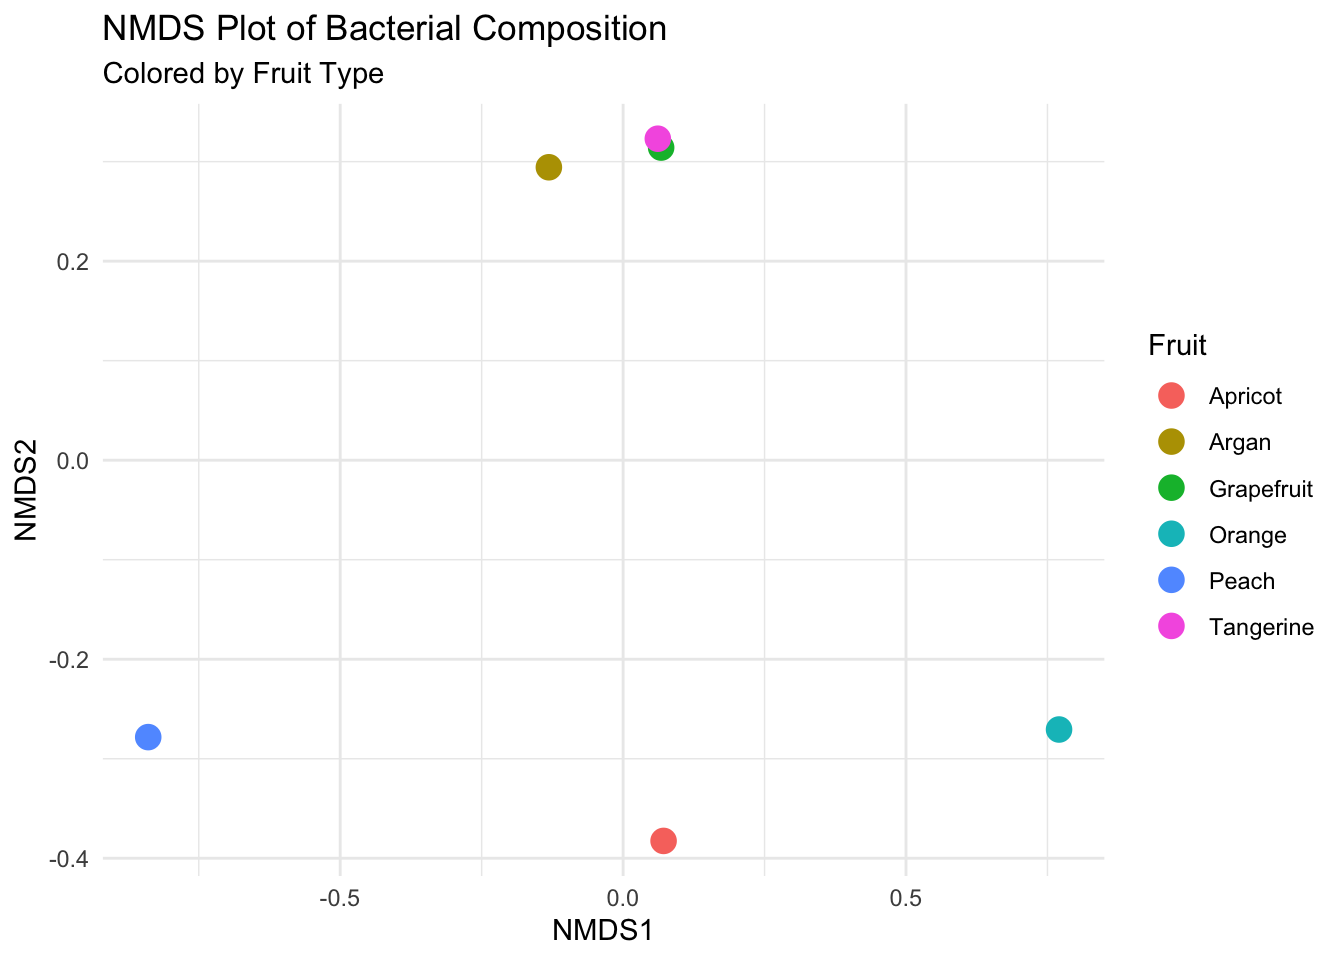
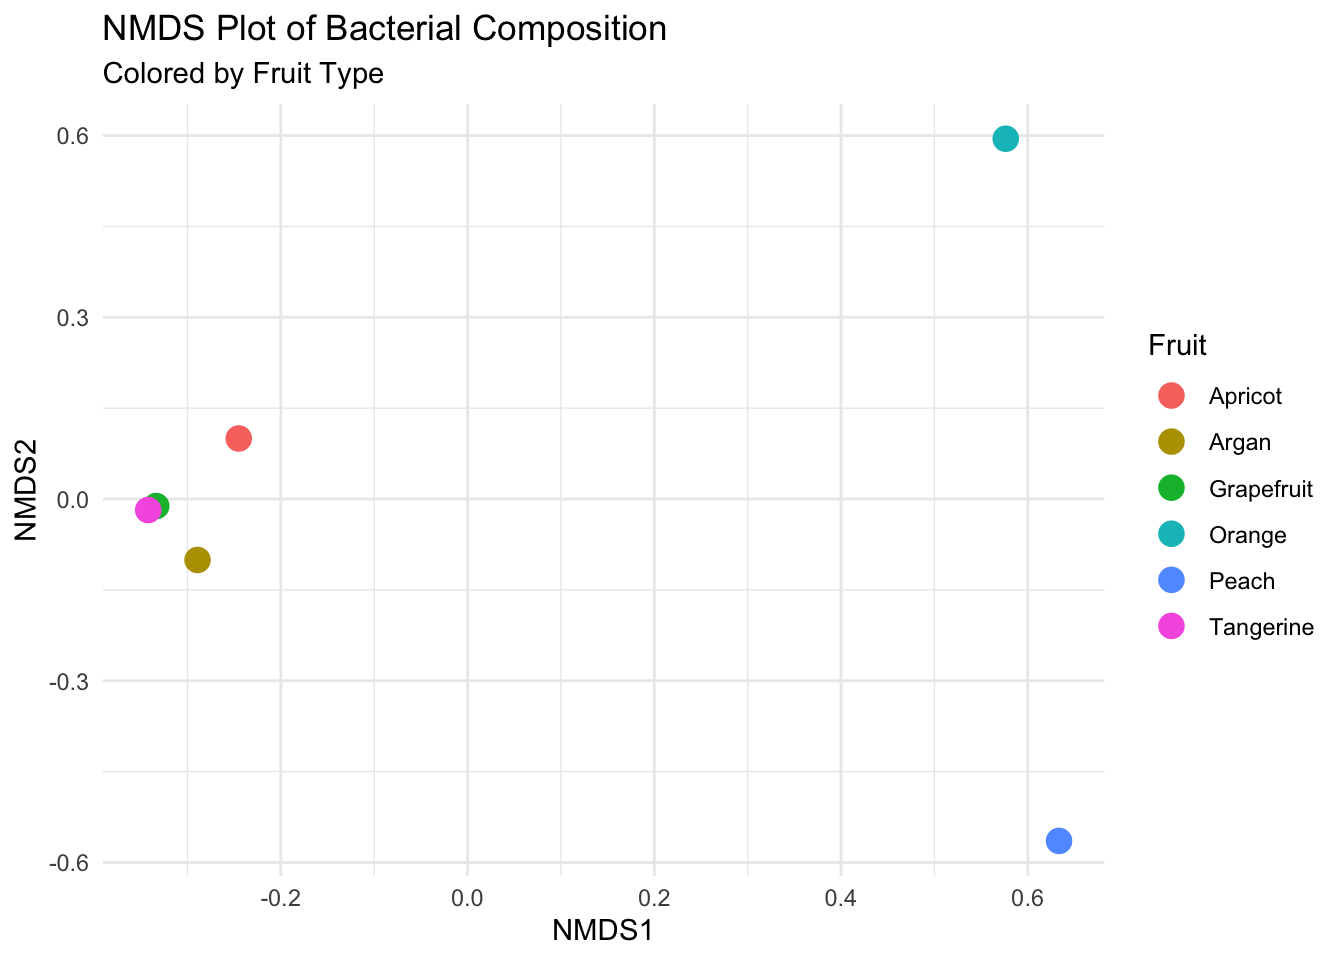
Commiting docs to render new website.

diff --git a/docs/qmds/PCoA.html b/docs/qmds/PCoA.html
@@ -436,7 +436,7 @@ Show/Hide <code>bray_curtis &lt;- vegdist(df_2, method = "bray"</code>) output
 <div class="cell">
 <div class="sourceCode cell-code" id="cb6"><pre class="sourceCode r code-with-copy"><code class="sourceCode r"><span id="cb6-1"><a href="#cb6-1" aria-hidden="true" tabindex="-1"></a>bray_curtis_matrix <span class="ot">&lt;-</span> <span class="fu">as.matrix</span>(bray_curtis) <span class="co"># First covert the values to a matrix</span></span>
 <span id="cb6-2"><a href="#cb6-2" aria-hidden="true" tabindex="-1"></a></span>
-<span id="cb6-3"><a href="#cb6-3" aria-hidden="true" tabindex="-1"></a>fruit_names <span class="ot">&lt;-</span> <span class="fu">c</span>(<span class="st">"Apricot"</span>, <span class="st">"Argan"</span>, <span class="st">"GF"</span>, <span class="st">"Orange"</span>, <span class="st">"Peach"</span>, <span class="st">"Tang"</span>) <span class="co"># Label what the fruits are </span></span>
+<span id="cb6-3"><a href="#cb6-3" aria-hidden="true" tabindex="-1"></a>fruit_names <span class="ot">&lt;-</span> <span class="fu">c</span>(<span class="st">"Apricot"</span>, <span class="st">"Argan"</span>, <span class="st">"GF"</span>, <span class="st">"Orange"</span>, <span class="st">"Peach"</span>, <span class="st">"Tangerine"</span>) <span class="co"># Label what the fruits are </span></span>
 <span id="cb6-4"><a href="#cb6-4" aria-hidden="true" tabindex="-1"></a></span>
 <span id="cb6-5"><a href="#cb6-5" aria-hidden="true" tabindex="-1"></a><span class="fu">rownames</span>(bray_curtis_matrix) <span class="ot">&lt;-</span> fruit_names <span class="co"># Add the fruit names to row names</span></span>
 <span id="cb6-6"><a href="#cb6-6" aria-hidden="true" tabindex="-1"></a></span>
@@ -448,13 +448,13 @@ Show/Hide <code>bray_curtis_matrix</code> output
 <div id="bray_curtis_matrix-container" style="display:none;">
 <div class="cell">
 <div class="cell-output cell-output-stdout">
-<pre><code>          Apricot     Argan        GF    Orange     Peach      Tang
-Apricot 0.0000000 0.1000000 0.1000000 0.1500000 0.3170732 0.5348837
-Argan   0.1000000 0.0000000 0.0000000 0.0952381 0.2558140 0.4666667
-GF      0.1000000 0.0000000 0.0000000 0.0952381 0.2558140 0.4666667
-Orange  0.1500000 0.0952381 0.0952381 0.0000000 0.2093023 0.4222222
-Peach   0.3170732 0.2558140 0.2558140 0.2093023 0.0000000 0.2608696
-Tang    0.5348837 0.4666667 0.4666667 0.4222222 0.2608696 0.0000000</code></pre>
+<pre><code>            Apricot     Argan        GF    Orange     Peach Tangerine
+Apricot   0.0000000 0.1000000 0.1000000 0.1500000 0.3170732 0.5348837
+Argan     0.1000000 0.0000000 0.0000000 0.0952381 0.2558140 0.4666667
+GF        0.1000000 0.0000000 0.0000000 0.0952381 0.2558140 0.4666667
+Orange    0.1500000 0.0952381 0.0952381 0.0000000 0.2093023 0.4222222
+Peach     0.3170732 0.2558140 0.2558140 0.2093023 0.0000000 0.2608696
+Tangerine 0.5348837 0.4666667 0.4666667 0.4222222 0.2608696 0.0000000</code></pre>
 </div>
 </div>
 </div>
@@ -476,13 +476,13 @@ Show/Hide <code>pcoa_values</code> output
 <div class="cell">
 <div class="cell-output cell-output-stdout">
 <pre><code>$points
-               [,1]         [,2]
-Apricot  0.18087554  0.004725498
-Argan    0.11375747  0.022353574
-GF       0.11375747  0.022353574
-Orange   0.06328949 -0.012621679
-Peach   -0.12055480 -0.078357582
-Tang    -0.35112516  0.041546616
+                 [,1]         [,2]
+Apricot    0.18087554  0.004725498
+Argan      0.11375747  0.022353574
+GF         0.11375747  0.022353574
+Orange     0.06328949 -0.012621679
+Peach     -0.12055480 -0.078357582
+Tangerine -0.35112516  0.041546616
 
 $eig
 [1]  2.004254e-01  9.047034e-03  4.449146e-03  3.386055e-03  8.527298e-18
@@ -526,13 +526,13 @@ Show/Hide <code>points</code> output
 <div id="points-container" style="display:none;">
 <div class="cell">
 <div class="cell-output cell-output-stdout">
-<pre><code>              PCoA1        PCoA2   Fruit
-Apricot  0.18087554  0.004725498 Apricot
-Argan    0.11375747  0.022353574   Argan
-GF       0.11375747  0.022353574      GF
-Orange   0.06328949 -0.012621679  Orange
-Peach   -0.12055480 -0.078357582   Peach
-Tang    -0.35112516  0.041546616    Tang</code></pre>
+<pre><code>                PCoA1        PCoA2     Fruit
+Apricot    0.18087554  0.004725498   Apricot
+Argan      0.11375747  0.022353574     Argan
+GF         0.11375747  0.022353574        GF
+Orange     0.06328949 -0.012621679    Orange
+Peach     -0.12055480 -0.078357582     Peach
+Tangerine -0.35112516  0.041546616 Tangerine</code></pre>
 </div>
 </div>
 </div>
@@ -576,6 +576,7 @@ Show/Hide <code>var_explained</code> output
 </div>
 </div>
 </div>
+<p><strong>What do we see?</strong> From this we can see that the microbial composition from Argan and Grapefruit are the same.</p>
 
 
 </section>

diff --git a/docs/qmds/tephritidecology.html b/docs/qmds/tephritidecology.html
@@ -211,8 +211,8 @@ ul.task-list li input[type="checkbox"] {
 
 <div class="cell">
 <div class="cell-output-display">
-<div class="leaflet html-widget html-fill-item" id="htmlwidget-61ee68b7981153ddf9e5" style="width:100%;height:464px;"></div>
-<script type="application/json" data-for="htmlwidget-61ee68b7981153ddf9e5">{"x":{"options":{"crs":{"crsClass":"L.CRS.EPSG3857","code":null,"proj4def":null,"projectedBounds":null,"options":{}}},"calls":[{"method":"addProviderTiles","args":["CartoDB.Positron",null,null,{"errorTileUrl":"","noWrap":false,"detectRetina":false}]},{"method":"addCircleMarkers","args":[[-1.3,0.3,-6.8,-31.95,-22],[34.8,32.5,39.2,115.86,144],[7.071067811865476,8.944271909999159,5.477225575051661,8.366600265340756,10],null,null,{"interactive":true,"className":"","stroke":true,"color":["red","blue","green","red","purple"],"weight":5,"opacity":0.5,"fill":true,"fillColor":["red","blue","green","red","purple"],"fillOpacity":0.7},{"showCoverageOnHover":true,"zoomToBoundsOnClick":true,"spiderfyOnMaxZoom":true,"removeOutsideVisibleBounds":true,"spiderLegPolylineOptions":{"weight":1.5,"color":"#222","opacity":0.5},"freezeAtZoom":false},null,["<b>Species:<\/b> Ceratitis capitata<br><b>Country:<\/b> Kenya<br><b>Abundance:<\/b> 50","<b>Species:<\/b> Bactrocera dorsalis<br><b>Country:<\/b> Uganda<br><b>Abundance:<\/b> 80","<b>Species:<\/b> Ceratitis cosyra<br><b>Country:<\/b> Tanzania<br><b>Abundance:<\/b> 30","<b>Species:<\/b> Ceratitis capitata<br><b>Country:<\/b> Western Australia<br><b>Abundance:<\/b> 70","<b>Species:<\/b> Bactrocera tryoni<br><b>Country:<\/b> Queensland<br><b>Abundance:<\/b> 100"],null,["Ceratitis capitata","Bactrocera dorsalis","Ceratitis cosyra","Ceratitis capitata","Bactrocera tryoni"],{"interactive":false,"permanent":false,"direction":"auto","opacity":1,"offset":[0,0],"textsize":"10px","textOnly":false,"className":"","sticky":true},null]},{"method":"addLegend","args":[{"colors":["red","blue","green","purple"],"labels":["Ceratitis capitata","Bactrocera dorsalis","Ceratitis cosyra","Bactrocera tryoni"],"na_color":null,"na_label":"NA","opacity":0.5,"position":"bottomright","type":"unknown","title":"Tephritid Species","extra":null,"layerId":null,"className":"info legend","group":null}]}],"limits":{"lat":[-31.95,0.3],"lng":[32.5,144]}},"evals":[],"jsHooks":[]}</script>
+<div class="leaflet html-widget html-fill-item" id="htmlwidget-cc197f1b271398bbf1a6" style="width:100%;height:464px;"></div>
+<script type="application/json" data-for="htmlwidget-cc197f1b271398bbf1a6">{"x":{"options":{"crs":{"crsClass":"L.CRS.EPSG3857","code":null,"proj4def":null,"projectedBounds":null,"options":{}}},"calls":[{"method":"addProviderTiles","args":["CartoDB.Positron",null,null,{"errorTileUrl":"","noWrap":false,"detectRetina":false}]},{"method":"addCircleMarkers","args":[[-1.3,0.3,-6.8,-31.95,-22],[34.8,32.5,39.2,115.86,144],[7.071067811865476,8.944271909999159,5.477225575051661,8.366600265340756,10],null,null,{"interactive":true,"className":"","stroke":true,"color":["red","blue","green","red","purple"],"weight":5,"opacity":0.5,"fill":true,"fillColor":["red","blue","green","red","purple"],"fillOpacity":0.7},{"showCoverageOnHover":true,"zoomToBoundsOnClick":true,"spiderfyOnMaxZoom":true,"removeOutsideVisibleBounds":true,"spiderLegPolylineOptions":{"weight":1.5,"color":"#222","opacity":0.5},"freezeAtZoom":false},null,["<b>Species:<\/b> Ceratitis capitata<br><b>Country:<\/b> Kenya<br><b>Abundance:<\/b> 50","<b>Species:<\/b> Bactrocera dorsalis<br><b>Country:<\/b> Uganda<br><b>Abundance:<\/b> 80","<b>Species:<\/b> Ceratitis cosyra<br><b>Country:<\/b> Tanzania<br><b>Abundance:<\/b> 30","<b>Species:<\/b> Ceratitis capitata<br><b>Country:<\/b> Western Australia<br><b>Abundance:<\/b> 70","<b>Species:<\/b> Bactrocera tryoni<br><b>Country:<\/b> Queensland<br><b>Abundance:<\/b> 100"],null,["Ceratitis capitata","Bactrocera dorsalis","Ceratitis cosyra","Ceratitis capitata","Bactrocera tryoni"],{"interactive":false,"permanent":false,"direction":"auto","opacity":1,"offset":[0,0],"textsize":"10px","textOnly":false,"className":"","sticky":true},null]},{"method":"addLegend","args":[{"colors":["red","blue","green","purple"],"labels":["Ceratitis capitata","Bactrocera dorsalis","Ceratitis cosyra","Bactrocera tryoni"],"na_color":null,"na_label":"NA","opacity":0.5,"position":"bottomright","type":"unknown","title":"Tephritid Species","extra":null,"layerId":null,"className":"info legend","group":null}]}],"limits":{"lat":[-31.95,0.3],"lng":[32.5,144]}},"evals":[],"jsHooks":[]}</script>
 </div>
 </div>
 
